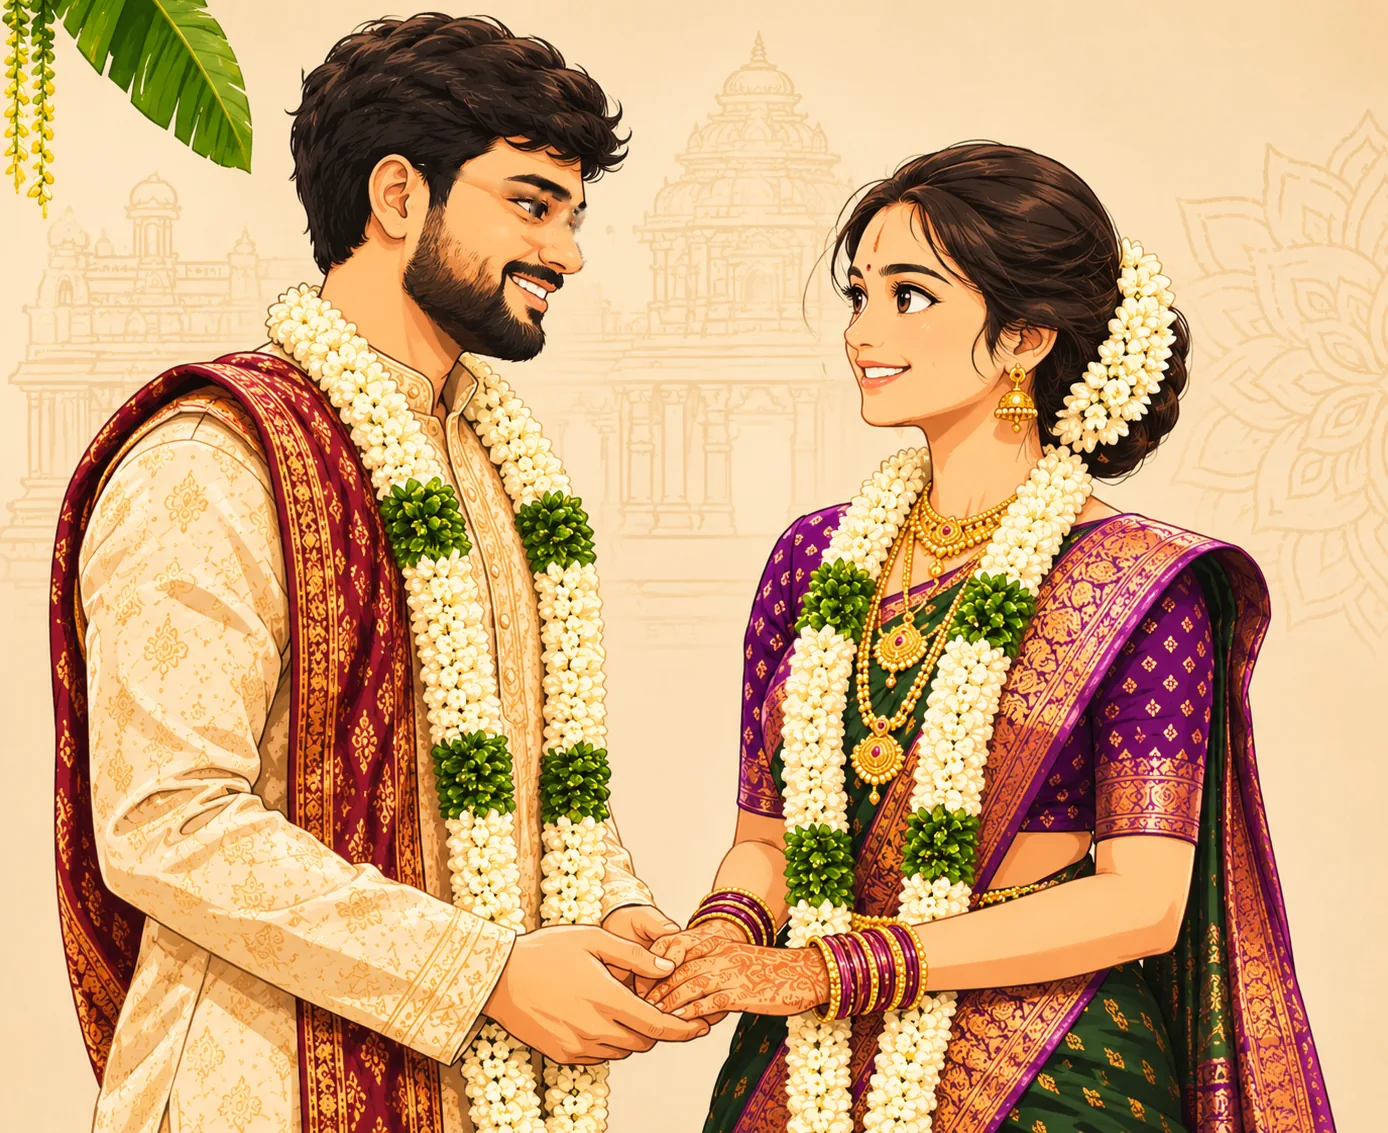
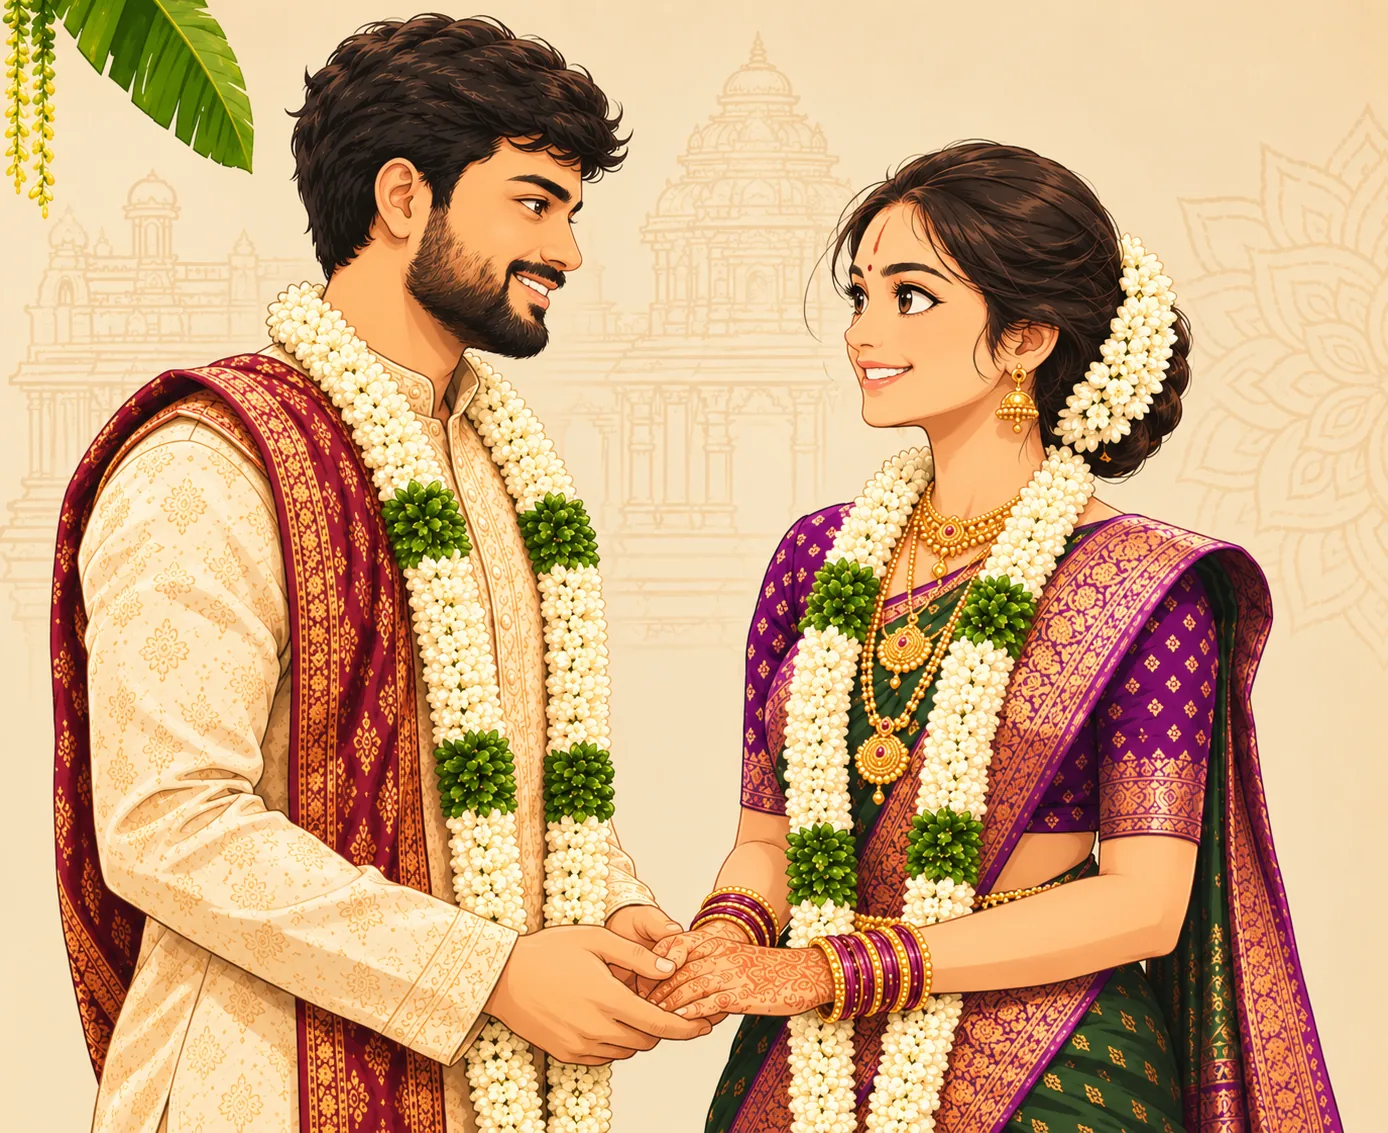
New couple portrait, seal without lotus, Thandrangi & Karri's title, plain WhatsApp text

Changed region(s): [[0.031, 0.0927, 0.9914, 1.0], [0.0929, 0.0, 0.4337, 0.1545], [0.0, 0.0, 0.062, 0.1853]]

diff --git a/index.html b/index.html
@@ -3,7 +3,7 @@
   <head>
     <meta charset="UTF-8" />
     <meta name="viewport" content="width=device-width, initial-scale=1, viewport-fit=cover" />
-    <title>Thandrangi's & Karri's · Harsha &amp; Jaya Sree · Engagement Invitation</title>
+    <title>Thandrangi & Karri's · Harsha &amp; Jaya Sree · Engagement Invitation</title>
     <meta
       name="description"
       content="Thandrangi Venkata Ramana and Smt. Lakshmi cordially invite you to the engagement ceremony of Harsha &amp; Jaya Sree — Sunday, 22 November 2026, 9:31 AM onwards, Gajuwaka, Visakhapatnam. Followed by Lunch."
@@ -13,7 +13,7 @@
 
     <!-- Open Graph / WhatsApp / Facebook -->
     <meta property="og:type" content="website" />
-    <meta property="og:site_name" content="Thandrangi's &amp; Karri's" />
+    <meta property="og:site_name" content="Thandrangi &amp; Karri's" />
     <meta property="og:title" content="Harsha &amp; Jaya Sree · Engagement Invitation" />
     <meta
       property="og:description"
@@ -23,7 +23,7 @@
     <meta property="og:image" content="__SITE_URL__images/og/og-image.jpg" />
     <meta property="og:image:width" content="1200" />
     <meta property="og:image:height" content="630" />
-    <meta property="og:image:alt" content="Thandrangi's &amp; Karri's — Harsha &amp; Jaya Sree engagement invitation" />
+    <meta property="og:image:alt" content="Thandrangi &amp; Karri's — Harsha &amp; Jaya Sree engagement invitation" />
     <meta name="twitter:card" content="summary_large_image" />
     <meta name="twitter:title" content="Harsha &amp; Jaya Sree · Engagement Invitation" />
     <meta name="twitter:description" content="Sunday, 22 November 2026 · 9:31 AM onwards · Gajuwaka, Visakhapatnam." />

diff --git a/src/data/weddingConfig.ts b/src/data/weddingConfig.ts
@@ -37,9 +37,9 @@ const ADDRESS_ONE_LINE =
 
 export const weddingConfig = {
   // ── Identity ────────────────────────────────────────────────
-  familyTitle: "THANDRANGI'S & KARRI'S",
+  familyTitle: "THANDRANGI & KARRI'S",
   tagline: 'A Celebration of Togetherness',
-  eventType: 'Engagement Invitation',
+  eventType: 'Engagement Celebration',
   heroEyebrow: 'Engagement Celebration',
 
   /** Invocation shown at the very top of the invitation. Set to '' to hide. */
@@ -131,13 +131,13 @@ export const weddingConfig = {
   siteUrl: 'https://tinyurl.com/harsha-engagement-invite',
   /** Text sent by the WhatsApp button. {link} is replaced with siteUrl. */
   whatsappMessage: [
-    'With immense joy and happiness, we invite you to celebrate the engagement of Harsha & Jaya Sree! 💜',
+    'With immense joy and happiness, we invite you to celebrate the engagement of Harsha & Jaya Sree!',
     '',
     'Your presence and blessings would make our special day even more memorable.',
     '',
     'All event details and location directions are in the invitation below.',
     '',
-    '💌 {link}',
+    '{link}',
     '',
     'Looking forward to celebrating with you!',
   ].join('\n'),

diff --git a/src/components/EnvelopeArt.tsx b/src/components/EnvelopeArt.tsx
@@ -295,11 +295,6 @@ export function OrganicSeal({ initials, className, style }: P & { initials: [str
         strokeWidth="1.5"
         strokeLinejoin="round"
       />
-      <g transform="translate(60 76) scale(.42)" fill="none" stroke="#E2C47A" strokeWidth="2.2">
-        <path d="M0 -14 C 6 -6 6 2 0 10 C -6 2 -6 -6 0 -14 Z" />
-        <path d="M0 10 C -8 7 -14 0 -15 -8 C -7 -6 -2 1 0 10 Z" />
-        <path d="M0 10 C 8 7 14 0 15 -8 C 7 -6 2 1 0 10 Z" />
-      </g>
       <ellipse cx="44" cy="34" rx="16" ry="7" fill="#fff" opacity=".12" transform="rotate(-30 44 34)" />
     </svg>
   );

diff --git a/src/styles/global.css b/src/styles/global.css
@@ -2476,9 +2476,12 @@ button {
   color: var(--gold-deep);
 }
 .blessings__signature {
-  font-family: var(--f-sign);
+  font-family: var(--f-serif);
+  font-style: italic;
+  font-weight: 600;
+  letter-spacing: 0.01em;
   text-wrap: balance;
-  font-size: clamp(2rem, 8.4vw, 3.4rem);
+  font-size: clamp(1.9rem, 8vw, 3rem);
   line-height: 1.2;
   color: var(--maroon);
 }
